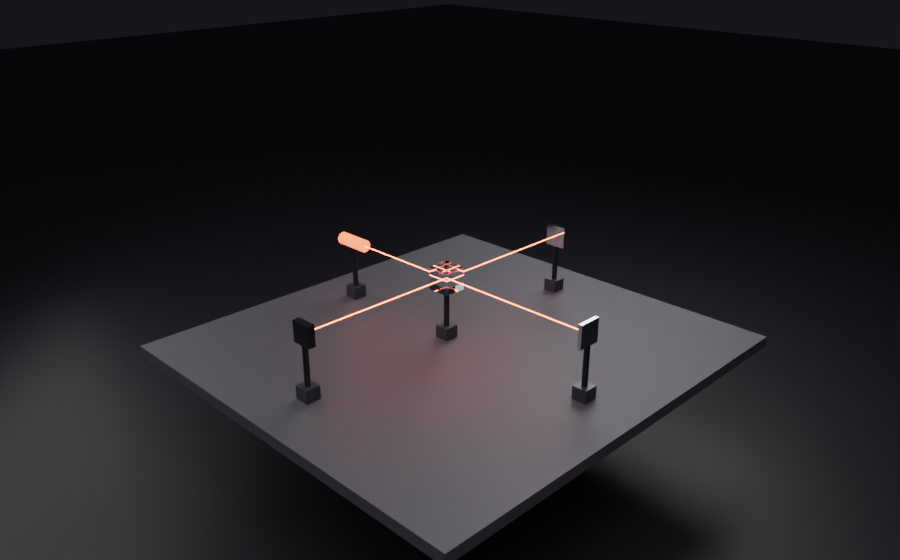
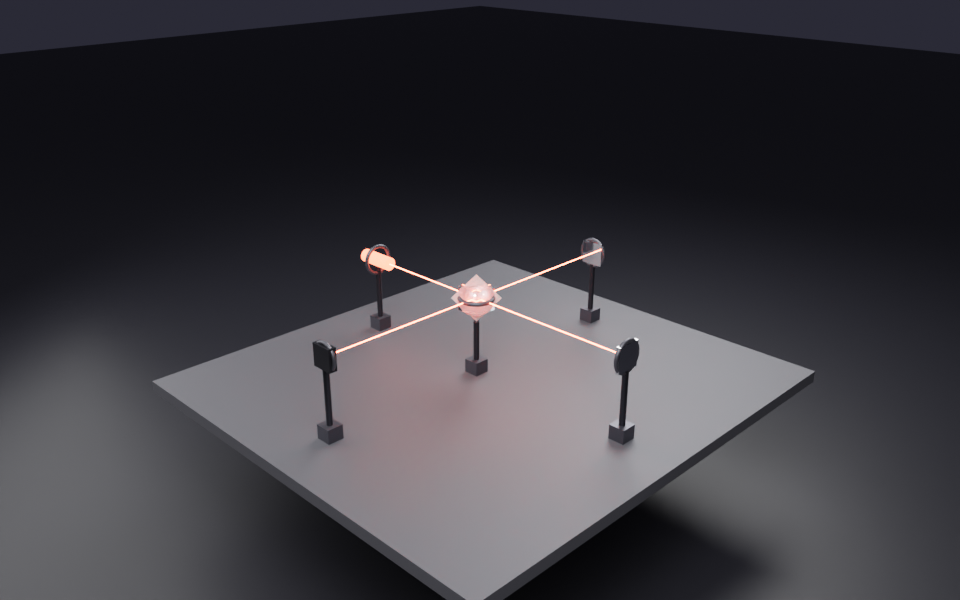
feat(optomech): mount rings + cube-splitter coating plane (v0.5.1)
Phase 2 polish: Dress Bench frames each optic with a mount ring (torus in the optic's transverse
plane, oriented from its matrix), so elements read as held in real mounts; and a beamsplitter cube
gains its characteristic internal 45-deg coated diagonal (a plane whose normal is the REFLECT
direction, merged into the cube's glass mesh). Both trace-safe -- the ring is non-optical
decoration in COL_BENCH; the BS plane keeps the cube's ports and is merged at build, with its
orphaned source mesh released so example rebuilds don't leak. README hero re-rendered (Cycles,
posts + mount rings + breadboard). Manifest 0.5.0 -> 0.5.1.

Regression 90/90 on Blender 5.1.1 (MZ/Bell builds + complementary energy unaffected by the BS
plane; bench dressing still leaves the trace identical); extension validate clean.

diff --git a/optical_alignment_sim/optomech.py b/optical_alignment_sim/optomech.py
@@ -11,7 +11,7 @@ Built on demand (a render-prep step), re-runnable, fully reversible. GPL-clean o
 from __future__ import annotations
 
 import bpy
-from mathutils import Vector
+from mathutils import Vector, Matrix
 
 from . import elements_generic as eg
 
@@ -59,6 +59,19 @@ def _box(name, size, loc, coll, matkey):
     return o
 
 
+def _ring(name, major, minor, mw, coll, matkey="mount"):
+    """A mount ring (torus) framing an optic, placed in the optic's transverse plane via mw."""
+    bpy.ops.mesh.primitive_torus_add(major_radius=major, minor_radius=minor, location=(0, 0, 0))
+    o = bpy.context.active_object
+    o.name = name
+    o.matrix_world = mw
+    for p in o.data.polygons:
+        p.use_smooth = True
+    o.data.materials.clear(); o.data.materials.append(_MATS[matkey]())
+    eg._link_only(o, coll)
+    return o
+
+
 def _optical_objects(scene):
     return [o for o in scene.objects
             if getattr(o, "optics", None) and o.optics.is_optical
@@ -97,7 +110,11 @@ def dress(scene, post_radius=3.0, clearance=55.0):
         h = max(bottom - board_z, 1.0)
         _cyl(BENCH_PREFIX + "Post_%02d" % i, post_radius, h, (p.x, p.y, bottom - h * 0.5), coll, "post")
         _box(BENCH_PREFIX + "Holder_%02d" % i, (16.0, 16.0, 14.0), (p.x, p.y, board_z + 7.0), coll, "holder")
-        n += 2
+        # a mount ring framing the optic, in its own transverse plane (orientation from its matrix)
+        ca = max(getattr(o.optics, "clear_aperture", 10.0), 6.0)
+        mw = Matrix.Translation(p) @ o.matrix_world.to_3x3().to_4x4()
+        _ring(BENCH_PREFIX + "Mount_%02d" % i, ca * 1.18, ca * 0.16, mw, coll)
+        n += 3
     return n
 
 

diff --git a/optical_alignment_sim/elements_generic.py b/optical_alignment_sim/elements_generic.py
@@ -186,6 +186,18 @@ def beamsplitter(name, loc, in_dir, reflect_dir, coll=None, split=0.5, pbs=False
     """50/50 (or PBS) cube: transmits along in_dir, reflects toward reflect_dir."""
     o = _cube(name, (size, size, size), coll)
     o.data.materials.clear(); o.data.materials.append(MATS["pbs" if pbs else "bs"]())
+    # the characteristic coated 45-deg diagonal: a plane through the cube whose normal is the
+    # REFLECT direction (-1,1,0)/sqrt2, merged into the cube mesh so glass shows the split surface
+    bpy.ops.mesh.primitive_plane_add(size=size * 1.40, location=(0, 0, 0))
+    _pl = bpy.context.active_object
+    _pl.matrix_world = _z_to(Vector((-1.0, 1.0, 0.0))).to_4x4()
+    _plmesh = _pl.data
+    bpy.ops.object.select_all(action='DESELECT')
+    _pl.select_set(True); o.select_set(True)
+    bpy.context.view_layer.objects.active = o
+    bpy.ops.object.join()                        # coating plane -> cube mesh (inherits slot-0 glass)
+    if _plmesh.users == 0:                        # join orphans the plane's own mesh datablock
+        bpy.data.meshes.remove(_plmesh)
     _tag(o, 'BEAMSPLITTER', split_ratio=split, clear_aperture=size * 0.55, is_pbs=pbs)
     o.optics.mount_preset = "PBS" if pbs else ""
     h = size * 0.5

diff --git a/CHANGELOG.md b/CHANGELOG.md
@@ -4,6 +4,16 @@ All notable changes to the **Blender Optics Simulator** (`optical_alignment_sim`
 here. The format follows [Keep a Changelog](https://keepachangelog.com/), and the project uses
 semantic versioning.
 
+## [0.5.1]
+
+### Added
+- **Mount rings + cube-splitter coating plane.** *Dress Bench* now also frames each optic with a
+  mount ring (a torus in the optic's transverse plane), so elements read as held in real mounts;
+  and a beamsplitter cube carries its characteristic internal 45° coated diagonal. Both are
+  trace-safe (the ring is non-optical decoration; the BS plane is merged into the cube's glass mesh
+  with the ports unchanged) and orphan-free (the merged plane's datablock is released). The README
+  hero is re-rendered to show the dressed bench with mounts.
+
 ## [0.5.0]
 
 ### Added
